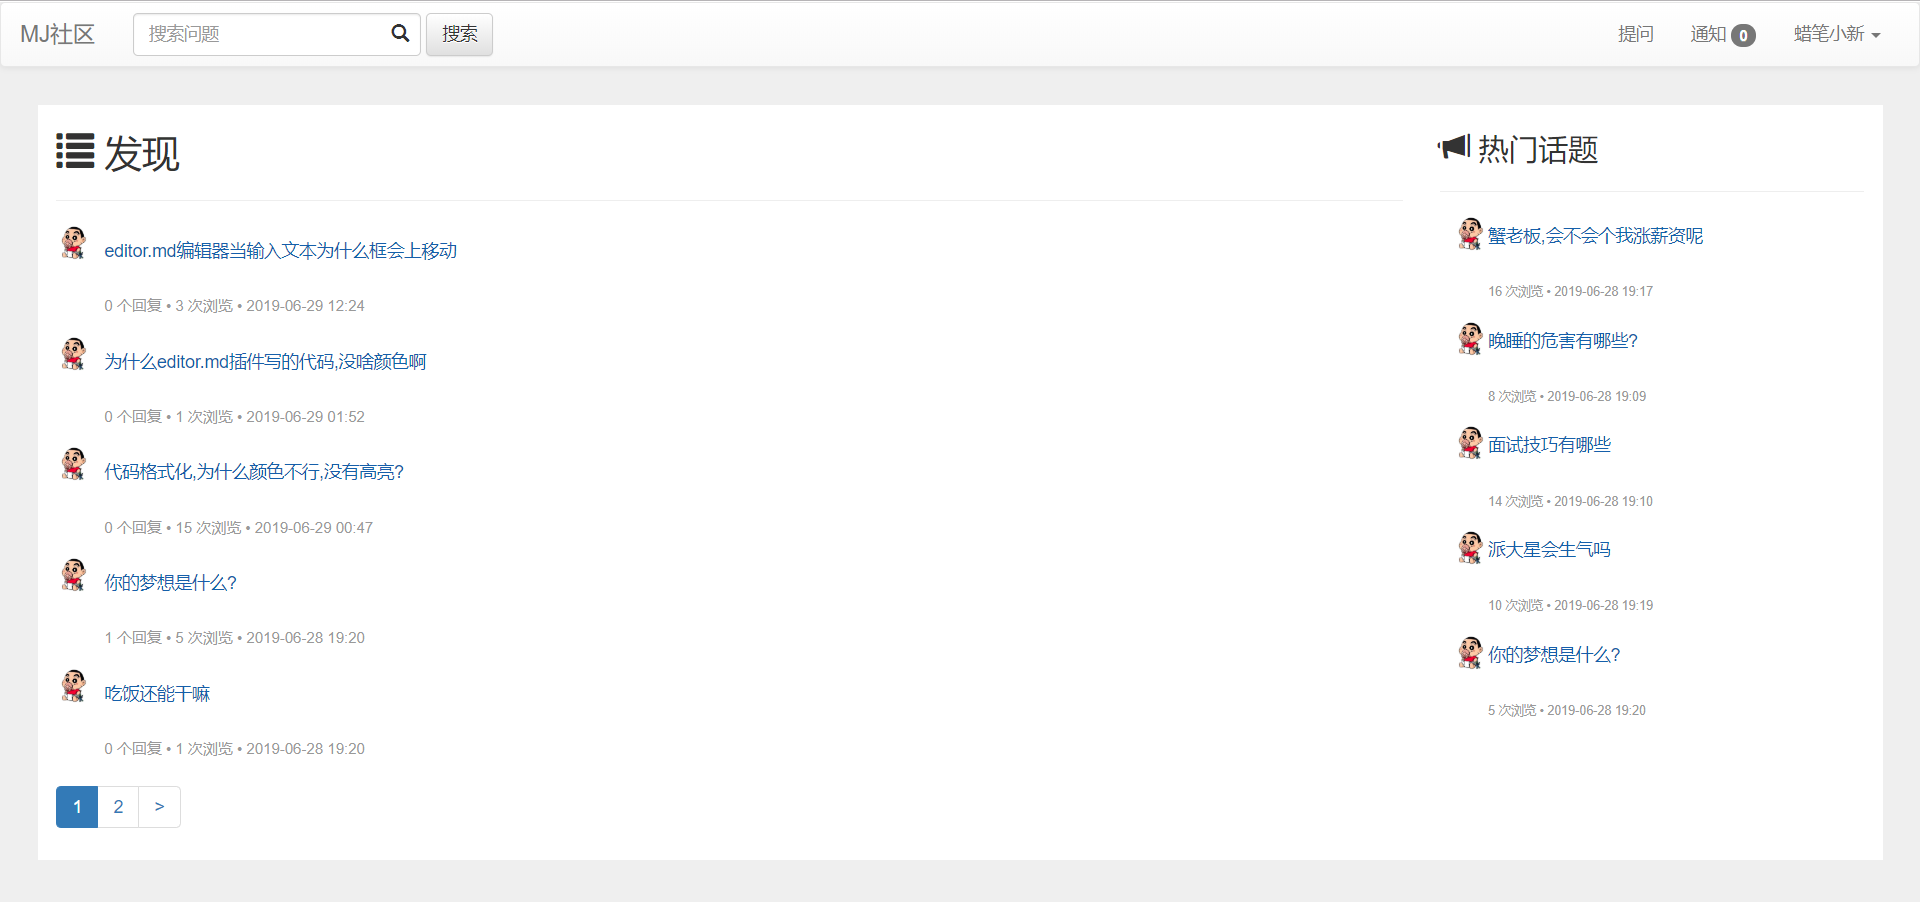
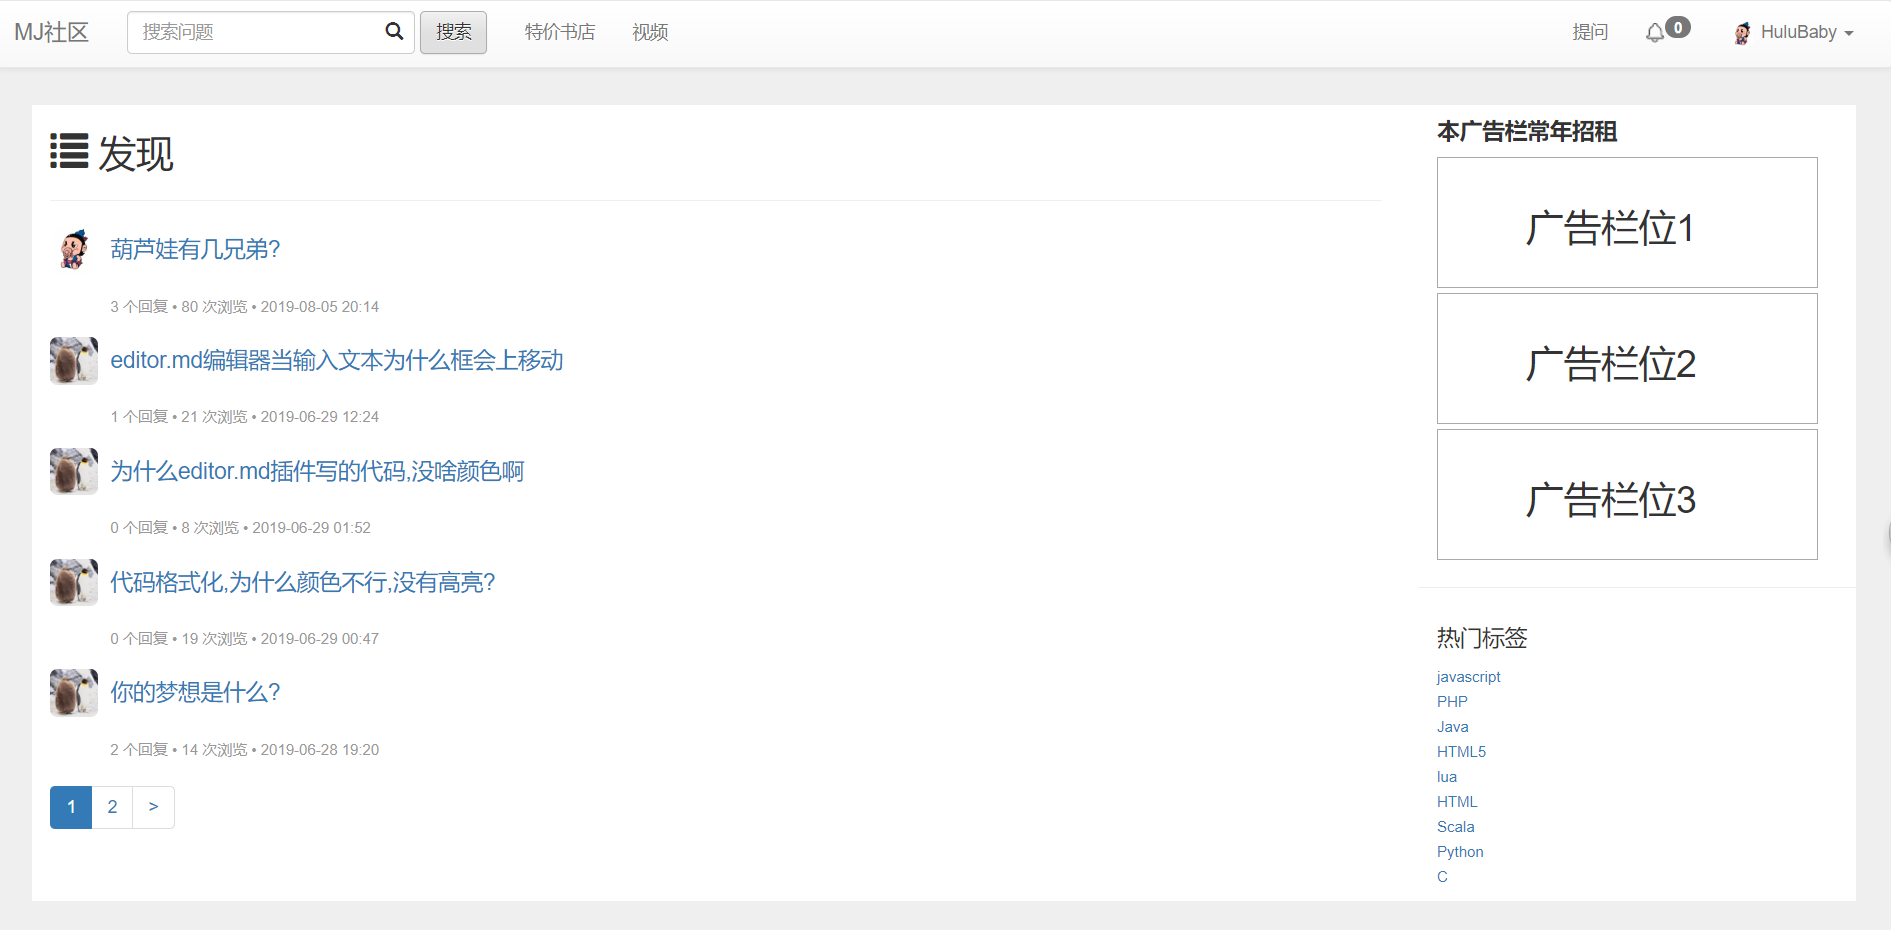
页面展示

diff --git a/src/main/resources/templates/navigation.html b/src/main/resources/templates/navigation.html
@@ -26,7 +26,7 @@
                 </form>
                 <ul class="nav navbar-nav">
                     <li><a href="https://detail.youzan.com/show/goods/newest?alias=2xj0uxwujrwg6" target="_blank"
-                           onclick="gtag('event', 'click', {'event_category': 'LINK','event_label': 'BOOK_STORE','transport_type': 'NAV'})">码匠书店</a>
+                           onclick="gtag('event', 'click', {'event_category': 'LINK','event_label': 'BOOK_STORE','transport_type': 'NAV'})">特价书店</a>
                     </li>
                     <li>
                         <a href="#" th:href="@{/video}" onclick="">视频</a>
